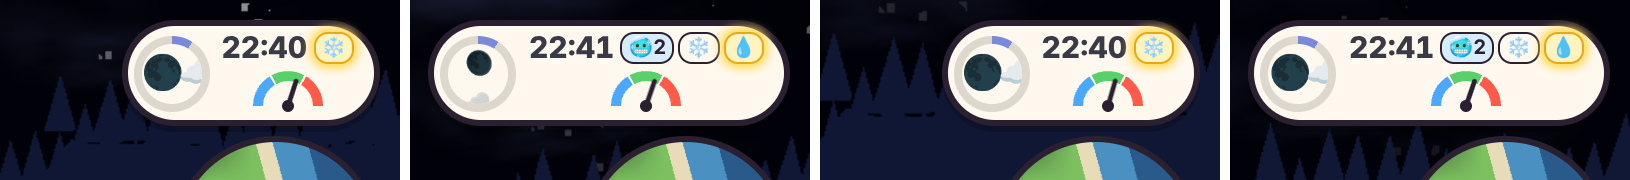
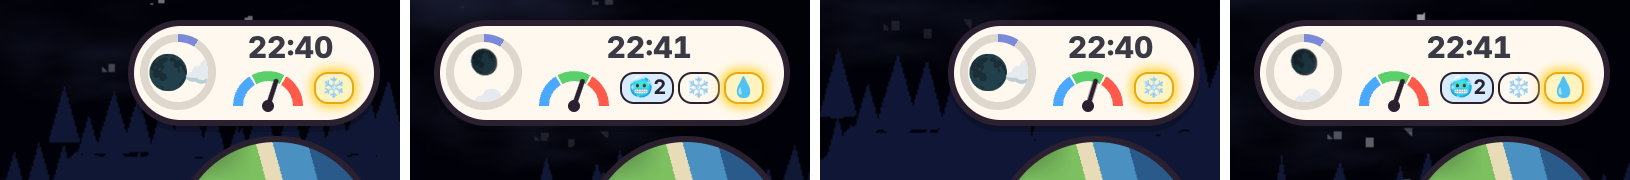
wip(newgame): v5.23 temperature status on the lower line beside the dial
Claude-Session: https://claude.ai/code/session_01GPWeNez232vT9ersFNk7wt

diff --git a/newgame/index.html b/newgame/index.html
@@ -694,7 +694,7 @@ body.l4 .gwi.on{border-color:#ffd23f;box-shadow:0 0 0 4px #ffd23f88}
 .wring i{width:30px;height:30px;border-radius:50%;background:var(--paper,#fff8ec);display:grid;place-items:center;font-style:normal;font-size:17px;letter-spacing:-3px;overflow:hidden;white-space:nowrap}
 .wcol{display:flex;flex-direction:column;align-items:center;line-height:1}.wcol b{font:800 15px/1.05 system-ui,sans-serif;color:#3a3a46;font-variant-numeric:tabular-nums}.wcol svg{display:block}
 #hTemp.wbox.cold{box-shadow:0 0 0 3px #4aa8ff99,0 3px 0 #0003}#hTemp.wbox.hot{box-shadow:0 0 0 3px #ff5a4a99,0 3px 0 #0003}#hClk{display:none!important}
-.wtop{display:flex;align-items:center;gap:3px}.wbox #resist{margin:0;flex-wrap:nowrap;gap:2px}.wbox #resist .rs{font-size:10px;line-height:14px;padding:0 3px;border-width:1.5px;border-radius:7px}.wbox #resist .rs.glow{box-shadow:0 0 5px 2px #ffd84a}   /* v5.23 (designer) the temperature status sits in the weather box, beside the time */
+.wtop{display:flex;align-items:center;gap:3px}.wbox #resist{margin:0;flex-wrap:nowrap;gap:2px}.wbox #resist .rs{font-size:10px;line-height:14px;padding:0 3px;border-width:1.5px;border-radius:7px}.wbox #resist .rs.glow{box-shadow:0 0 5px 2px #ffd84a}   /* v5.23 (designer) the temperature status sits in the weather box, on the lower line beside the dial */
 </style></head>
 <body>
 <canvas id="cv"></canvas>
@@ -702,7 +702,7 @@ body.l4 .gwi.on{border-color:#ffd23f;box-shadow:0 0 0 4px #ffd23f88}
   <div class="pf" id="pf"><div class="av" id="pfAv">🙂</div><div><div><span id="hLv">Lv 1</span> · <span id="hName"></span></div></div></div>
   <div class="cur"><div class="rt"><div class="pill">🪙 <span id="hCoin">0</span></div><div class="pill">💎 <span id="hGem">0</span></div></div>
     <div class="rt"><div class="pill" id="hMats"></div></div>
-    <div class="rt"><button class="pill wbox" id="hTemp" aria-label="เวลา · อากาศ · อุณหภูมิ"><span class="wring" id="hRing"><i id="hClock"></i></span><span class="wcol"><span class="wtop"><b id="hTime"></b><span id="resist"></span></span><span id="hGauge"></span></span><small id="hSun" hidden></small></button></div>
+    <div class="rt"><button class="pill wbox" id="hTemp" aria-label="เวลา · อากาศ · อุณหภูมิ"><span class="wring" id="hRing"><i id="hClock"></i></span><span class="wcol"><b id="hTime"></b><span class="wtop"><span id="hGauge"></span><span id="resist"></span></span></span><small id="hSun" hidden></small></button></div>
     <div class="rt"><div id="miniW"><canvas id="mini"></canvas><b id="miniN">N</b><small id="miniZ"></small></div></div>
     <div class="rt" id="mBtns"><button class="sq" id="mBag" aria-label="กระเป๋า">🎒</button><button class="sq" id="mMap" aria-label="เมนู"><i class="hb"></i></button></div><button id="goal" aria-label="เป้าหมาย"></button>
     <div class="rt"><div class="pill" id="hBuff" style="display:none"></div><button class="sq" id="bBook" aria-label="สมุดบันทึก">📓</button><button class="sq" id="bMenu" aria-label="เมนู">☰</button><button class="sq" id="bWheel" aria-label="เมนู">◎</button></div></div>
